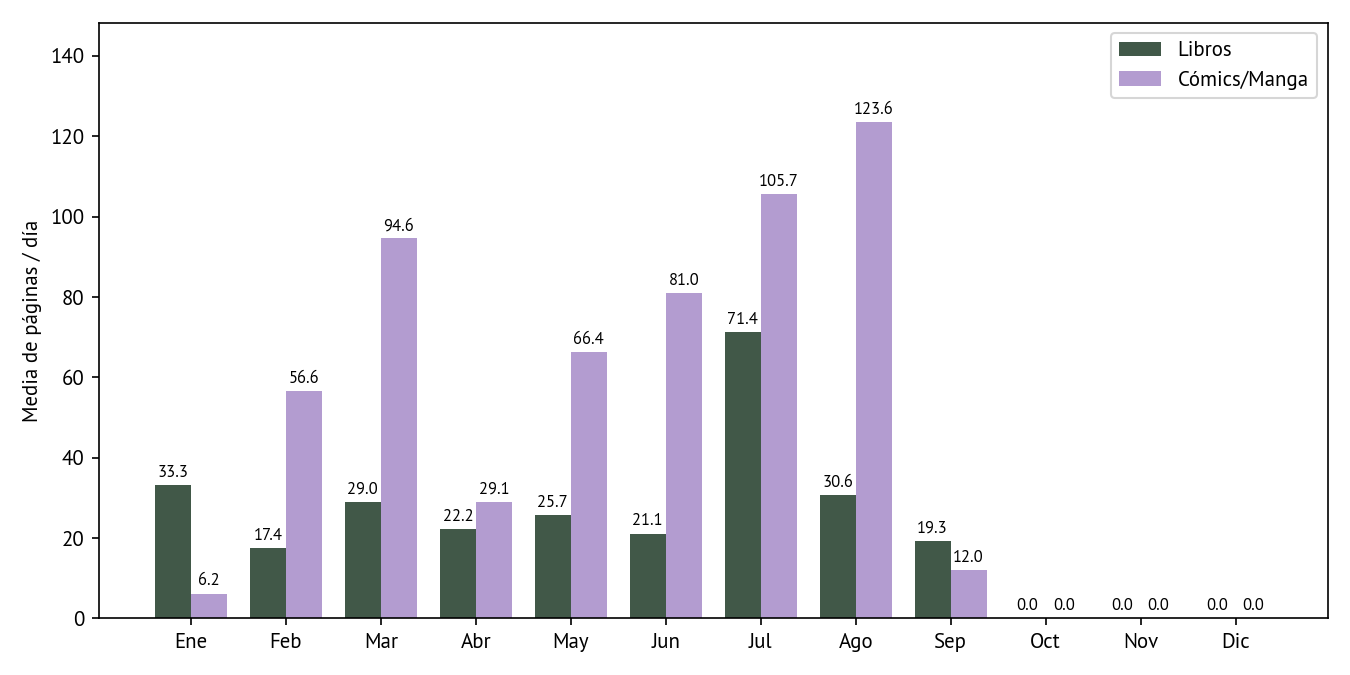
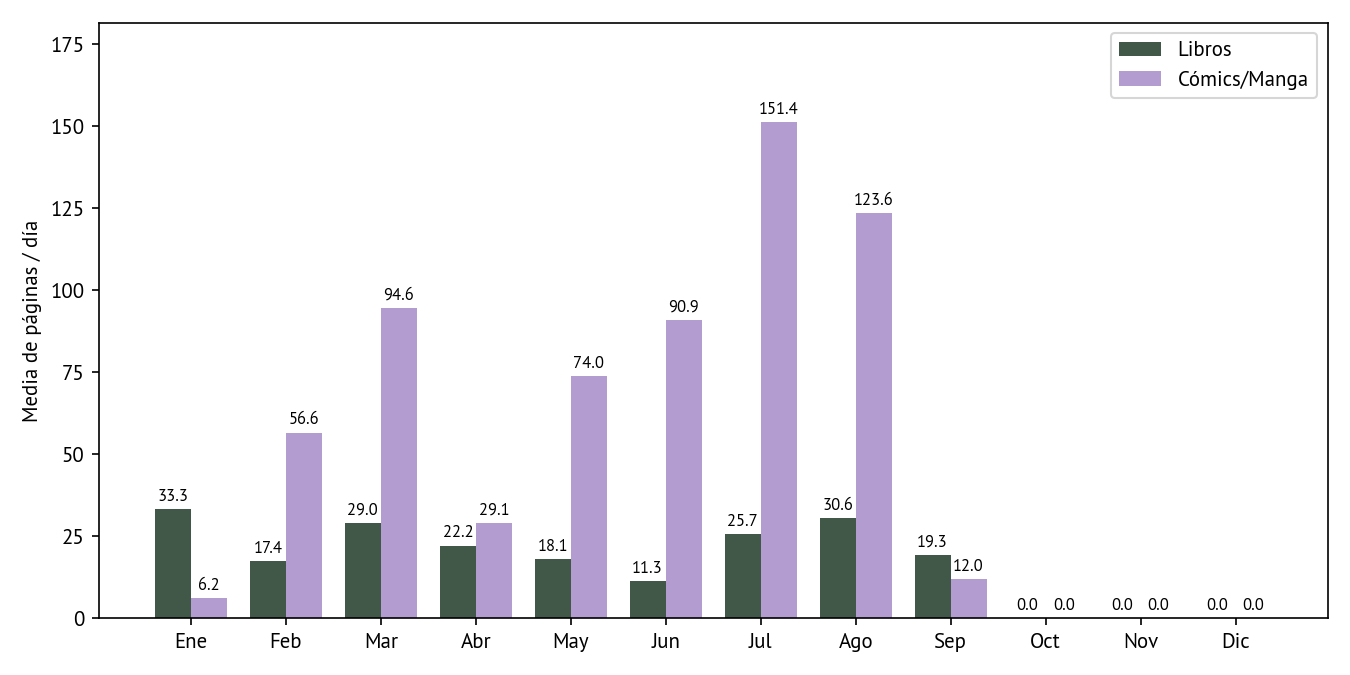
.

diff --git a/content/estadisticas/index.md b/content/estadisticas/index.md
@@ -6,11 +6,11 @@ summary: Estadísticas de lectura por año.
 ## Resumen histórico
 
 <div style="border:1px solid rgba(128,128,128,0.35);border-radius:12px;padding:1.25rem 1.5rem;margin:1rem 0;background:rgba(128,128,128,0.06);">
-<h3 style="margin-top:0;">Libros</h3><div style="display:flex;gap:2.5rem;flex-wrap:wrap;"><div><div style="opacity:0.6;">Total páginas leídas</div><div style="font-size:2rem;font-weight:800;line-height:1.1;">197846</div></div><div><div style="opacity:0.6;">Número de libros</div><div style="font-size:2rem;font-weight:800;line-height:1.1;">670</div></div></div>
+<h3 style="margin-top:0;">Libros</h3><div style="display:flex;gap:2.5rem;flex-wrap:wrap;"><div><div style="opacity:0.6;">Total páginas leídas</div><div style="font-size:2rem;font-weight:800;line-height:1.1;">195562</div></div><div><div style="opacity:0.6;">Número de libros</div><div style="font-size:2rem;font-weight:800;line-height:1.1;">660</div></div></div>
 </div>
 
 <div style="border:1px solid rgba(128,128,128,0.35);border-radius:12px;padding:1.25rem 1.5rem;margin:1rem 0;background:rgba(128,128,128,0.06);">
-<h3 style="margin-top:0;">Cómics/Manga</h3><div style="display:flex;gap:2.5rem;flex-wrap:wrap;"><div><div style="opacity:0.6;">Total páginas leídas</div><div style="font-size:2rem;font-weight:800;line-height:1.1;">52172</div></div><div><div style="opacity:0.6;">Número de cómics/manga</div><div style="font-size:2rem;font-weight:800;line-height:1.1;">256</div></div></div>
+<h3 style="margin-top:0;">Cómics/Manga</h3><div style="display:flex;gap:2.5rem;flex-wrap:wrap;"><div><div style="opacity:0.6;">Total páginas leídas</div><div style="font-size:2rem;font-weight:800;line-height:1.1;">54456</div></div><div><div style="opacity:0.6;">Número de cómics/manga</div><div style="font-size:2rem;font-weight:800;line-height:1.1;">266</div></div></div>
 </div>
 
 <div style="border:1px solid rgba(128,128,128,0.35);border-radius:12px;padding:1.25rem 1.5rem;margin:1rem 0;background:rgba(128,128,128,0.06);">
@@ -56,19 +56,19 @@ summary: Estadísticas de lectura por año.
 </div>
 
 <div style="border:1px solid rgba(128,128,128,0.35);border-radius:12px;padding:1.25rem 1.5rem;margin:1rem 0;background:rgba(128,128,128,0.06);">
-<h3 style="margin-top:0;">Longitud media</h3><div style="display:flex;gap:2.5rem;flex-wrap:wrap;"><div><div style="opacity:0.6;">Libros</div><div style="font-size:2rem;font-weight:800;line-height:1.1;">295</div><div style="font-weight:700;">páginas de media</div></div><div><div style="opacity:0.6;">Cómics/Manga</div><div style="font-size:2rem;font-weight:800;line-height:1.1;">204</div><div style="font-weight:700;">páginas de media</div></div></div>
+<h3 style="margin-top:0;">Longitud media</h3><div style="display:flex;gap:2.5rem;flex-wrap:wrap;"><div><div style="opacity:0.6;">Libros</div><div style="font-size:2rem;font-weight:800;line-height:1.1;">296</div><div style="font-weight:700;">páginas de media</div></div><div><div style="opacity:0.6;">Cómics/Manga</div><div style="font-size:2rem;font-weight:800;line-height:1.1;">205</div><div style="font-weight:700;">páginas de media</div></div></div>
 </div>
 
 <div style="border:1px solid rgba(128,128,128,0.35);border-radius:12px;padding:1.25rem 1.5rem;margin:1rem 0;background:rgba(128,128,128,0.06);">
-<h3 style="margin-top:0;">Top 5 géneros</h3><div style="display:flex;gap:2.5rem;flex-wrap:wrap;"><div><div style="opacity:0.6;margin-bottom:0.3rem;">Libros</div><ol style="margin:0;padding-left:1.2rem;"><li>Ficción (505)</li><li>Club de lectura (193)</li><li>Novela (192)</li><li>Fantasía (186)</li><li>Contemporaneo (176)</li></ol></div><div><div style="opacity:0.6;margin-bottom:0.3rem;">Cómics/Manga</div><ol style="margin:0;padding-left:1.2rem;"><li>Novela gráfica (221)</li><li>Ficción (156)</li><li>Fantasía (84)</li><li>Jovenes adultos (54)</li><li>Romance (53)</li></ol></div></div>
+<h3 style="margin-top:0;">Top 5 géneros</h3><div style="display:flex;gap:2.5rem;flex-wrap:wrap;"><div><div style="opacity:0.6;margin-bottom:0.3rem;">Libros</div><ol style="margin:0;padding-left:1.2rem;"><li>Ficción (505)</li><li>Club de lectura (193)</li><li>Novela (192)</li><li>Fantasía (186)</li><li>Contemporaneo (176)</li></ol></div><div><div style="opacity:0.6;margin-bottom:0.3rem;">Cómics/Manga</div><ol style="margin:0;padding-left:1.2rem;"><li>Novela gráfica (227)</li><li>Ficción (163)</li><li>Fantasía (83)</li><li>Jovenes adultos (54)</li><li>Romance (53)</li></ol></div></div>
 </div>
 
 <div style="border:1px solid rgba(128,128,128,0.35);border-radius:12px;padding:1.25rem 1.5rem;margin:1rem 0;background:rgba(128,128,128,0.06);">
-<h3 style="margin-top:0;">Autores más leídos</h3><div style="display:flex;gap:2.5rem;flex-wrap:wrap;"><div><div style="opacity:0.6;margin-bottom:0.3rem;">Libros</div><ol style="margin:0;padding-left:1.2rem;"><li>J.K. Rowling (10)</li><li>Michael McDowell (9)</li><li>Grady Hendrix (8)</li><li>Hiromi Kawakami (5)</li><li>P. Djèlí Clark (5)</li></ol></div><div><div style="opacity:0.6;margin-bottom:0.3rem;">Cómics/Manga</div><ol style="margin:0;padding-left:1.2rem;"><li>Matt Fraction (31)</li><li>Makoto Ojiro (14)</li><li>Peter Bagge (13)</li><li>Rumiko Takahashi (9)</li><li>Yarō Abe (9)</li></ol></div></div>
+<h3 style="margin-top:0;">Autores más leídos</h3><div style="display:flex;gap:2.5rem;flex-wrap:wrap;"><div><div style="opacity:0.6;margin-bottom:0.3rem;">Libros</div><ol style="margin:0;padding-left:1.2rem;"><li>J.K. Rowling (10)</li><li>Michael McDowell (9)</li><li>Grady Hendrix (8)</li><li>Hiromi Kawakami (5)</li><li>P. Djèlí Clark (5)</li></ol></div><div><div style="opacity:0.6;margin-bottom:0.3rem;">Cómics/Manga</div><ol style="margin:0;padding-left:1.2rem;"><li>Matt Fraction (31)</li><li>Peter Bagge (16)</li><li>Makoto Ojiro (14)</li><li>Yarō Abe (10)</li><li>Rumiko Takahashi (9)</li></ol></div></div>
 </div>
 
 <div style="border:1px solid rgba(128,128,128,0.35);border-radius:12px;padding:1.25rem 1.5rem;margin:1rem 0;background:rgba(128,128,128,0.06);">
-<h3 style="margin-top:0;">Editoriales más leídas</h3><div style="display:flex;gap:2.5rem;flex-wrap:wrap;"><div><div style="opacity:0.6;margin-bottom:0.3rem;">Libros</div><ol style="margin:0;padding-left:1.2rem;"><li>Libros del Asteroide (28)</li><li>Blackie Books (26)</li><li>Editorial Anagrama (25)</li><li>Literatura Random House (18)</li><li>Anagrama (17)</li></ol></div><div><div style="opacity:0.6;margin-bottom:0.3rem;">Cómics/Manga</div><ol style="margin:0;padding-left:1.2rem;"><li>Image Comics (27)</li><li>Milky Way Ediciones (21)</li><li>Astiberri (19)</li><li>Ediciones Glénat España (12)</li><li>La Cúpula (11)</li></ol></div></div>
+<h3 style="margin-top:0;">Editoriales más leídas</h3><div style="display:flex;gap:2.5rem;flex-wrap:wrap;"><div><div style="opacity:0.6;margin-bottom:0.3rem;">Libros</div><ol style="margin:0;padding-left:1.2rem;"><li>Libros del Asteroide (28)</li><li>Blackie Books (26)</li><li>Editorial Anagrama (25)</li><li>Literatura Random House (18)</li><li>Anagrama (17)</li></ol></div><div><div style="opacity:0.6;margin-bottom:0.3rem;">Cómics/Manga</div><ol style="margin:0;padding-left:1.2rem;"><li>Image Comics (27)</li><li>Milky Way Ediciones (21)</li><li>Astiberri (19)</li><li>La Cúpula (12)</li><li>Ediciones Glénat España (12)</li></ol></div></div>
 </div>
 
 <div style="border:1px solid rgba(128,128,128,0.35);border-radius:12px;padding:1.25rem 1.5rem;margin:1rem 0;background:rgba(128,128,128,0.06);">
@@ -78,11 +78,11 @@ summary: Estadísticas de lectura por año.
 ## 2026
 
 <div style="border:1px solid rgba(128,128,128,0.35);border-radius:12px;padding:1.25rem 1.5rem;margin:1rem 0;background:rgba(128,128,128,0.06);">
-<h3 style="margin-top:0;">Libros</h3><div style="display:flex;gap:2.5rem;flex-wrap:wrap;"><div><div style="opacity:0.6;">Total páginas leídas</div><div style="font-size:2rem;font-weight:800;line-height:1.1;">8258</div></div><div><div style="opacity:0.6;">Número de libros</div><div style="font-size:2rem;font-weight:800;line-height:1.1;">32</div></div></div>
+<h3 style="margin-top:0;">Libros</h3><div style="display:flex;gap:2.5rem;flex-wrap:wrap;"><div><div style="opacity:0.6;">Total páginas leídas</div><div style="font-size:2rem;font-weight:800;line-height:1.1;">6310</div></div><div><div style="opacity:0.6;">Número de libros</div><div style="font-size:2rem;font-weight:800;line-height:1.1;">23</div></div></div>
 </div>
 
 <div style="border:1px solid rgba(128,128,128,0.35);border-radius:12px;padding:1.25rem 1.5rem;margin:1rem 0;background:rgba(128,128,128,0.06);">
-<h3 style="margin-top:0;">Cómics/Manga</h3><div style="display:flex;gap:2.5rem;flex-wrap:wrap;"><div><div style="opacity:0.6;">Total páginas leídas</div><div style="font-size:2rem;font-weight:800;line-height:1.1;">17540</div></div><div><div style="opacity:0.6;">Número de cómics/manga</div><div style="font-size:2rem;font-weight:800;line-height:1.1;">108</div></div></div>
+<h3 style="margin-top:0;">Cómics/Manga</h3><div style="display:flex;gap:2.5rem;flex-wrap:wrap;"><div><div style="opacity:0.6;">Total páginas leídas</div><div style="font-size:2rem;font-weight:800;line-height:1.1;">19488</div></div><div><div style="opacity:0.6;">Número de cómics/manga</div><div style="font-size:2rem;font-weight:800;line-height:1.1;">117</div></div></div>
 </div>
 
 <div style="border:1px solid rgba(128,128,128,0.35);border-radius:12px;padding:1.25rem 1.5rem;margin:1rem 0;background:rgba(128,128,128,0.06);">
@@ -132,11 +132,11 @@ summary: Estadísticas de lectura por año.
 </div>
 
 <div style="border:1px solid rgba(128,128,128,0.35);border-radius:12px;padding:1.25rem 1.5rem;margin:1rem 0;background:rgba(128,128,128,0.06);">
-<h3 style="margin-top:0;">Longitud media</h3><div style="display:flex;gap:2.5rem;flex-wrap:wrap;"><div><div style="opacity:0.6;">Libros</div><div style="font-size:2rem;font-weight:800;line-height:1.1;">258</div><div style="font-weight:700;">páginas de media</div></div><div><div style="opacity:0.6;">Cómics/Manga</div><div style="font-size:2rem;font-weight:800;line-height:1.1;">162</div><div style="font-weight:700;">páginas de media</div></div></div>
+<h3 style="margin-top:0;">Longitud media</h3><div style="display:flex;gap:2.5rem;flex-wrap:wrap;"><div><div style="opacity:0.6;">Libros</div><div style="font-size:2rem;font-weight:800;line-height:1.1;">274</div><div style="font-weight:700;">páginas de media</div></div><div><div style="opacity:0.6;">Cómics/Manga</div><div style="font-size:2rem;font-weight:800;line-height:1.1;">167</div><div style="font-weight:700;">páginas de media</div></div></div>
 </div>
 
 <div style="border:1px solid rgba(128,128,128,0.35);border-radius:12px;padding:1.25rem 1.5rem;margin:1rem 0;background:rgba(128,128,128,0.06);">
-<h3 style="margin-top:0;">Top 5 géneros</h3><div style="display:flex;gap:2.5rem;flex-wrap:wrap;"><div><div style="opacity:0.6;margin-bottom:0.3rem;">Libros</div><ol style="margin:0;padding-left:1.2rem;"><li>Ficción (19)</li><li>Ficción Literaria (8)</li><li>Contemporaneo (8)</li><li>Novela (8)</li><li>Relatos (7)</li></ol></div><div><div style="opacity:0.6;margin-bottom:0.3rem;">Cómics/Manga</div><ol style="margin:0;padding-left:1.2rem;"><li>Novela gráfica (95)</li><li>Ficción (75)</li><li>Fantasía (37)</li><li>Jovenes adultos (35)</li><li>Romance (30)</li></ol></div></div>
+<h3 style="margin-top:0;">Top 5 géneros</h3><div style="display:flex;gap:2.5rem;flex-wrap:wrap;"><div><div style="opacity:0.6;margin-bottom:0.3rem;">Libros</div><ol style="margin:0;padding-left:1.2rem;"><li>Ficción (19)</li><li>Ficción Literaria (8)</li><li>Contemporaneo (8)</li><li>Novela (8)</li><li>Relatos (7)</li></ol></div><div><div style="opacity:0.6;margin-bottom:0.3rem;">Cómics/Manga</div><ol style="margin:0;padding-left:1.2rem;"><li>Novela gráfica (101)</li><li>Ficción (82)</li><li>Fantasía (36)</li><li>Jovenes adultos (35)</li><li>Romance (30)</li></ol></div></div>
 </div>
 
 <div style="border:1px solid rgba(128,128,128,0.35);border-radius:12px;padding:1.25rem 1.5rem;margin:1rem 0;background:rgba(128,128,128,0.06);">
@@ -158,11 +158,11 @@ summary: Estadísticas de lectura por año.
 ## 2025
 
 <div style="border:1px solid rgba(128,128,128,0.35);border-radius:12px;padding:1.25rem 1.5rem;margin:1rem 0;background:rgba(128,128,128,0.06);">
-<h3 style="margin-top:0;">Libros</h3><div style="display:flex;gap:2.5rem;flex-wrap:wrap;"><div><div style="opacity:0.6;">Total páginas leídas</div><div style="font-size:2rem;font-weight:800;line-height:1.1;">11156</div></div><div><div style="opacity:0.6;">Número de libros</div><div style="font-size:2rem;font-weight:800;line-height:1.1;">42</div></div></div>
+<h3 style="margin-top:0;">Libros</h3><div style="display:flex;gap:2.5rem;flex-wrap:wrap;"><div><div style="opacity:0.6;">Total páginas leídas</div><div style="font-size:2rem;font-weight:800;line-height:1.1;">10820</div></div><div><div style="opacity:0.6;">Número de libros</div><div style="font-size:2rem;font-weight:800;line-height:1.1;">41</div></div></div>
 </div>
 
 <div style="border:1px solid rgba(128,128,128,0.35);border-radius:12px;padding:1.25rem 1.5rem;margin:1rem 0;background:rgba(128,128,128,0.06);">
-<h3 style="margin-top:0;">Cómics/Manga</h3><div style="display:flex;gap:2.5rem;flex-wrap:wrap;"><div><div style="opacity:0.6;">Total páginas leídas</div><div style="font-size:2rem;font-weight:800;line-height:1.1;">15428</div></div><div><div style="opacity:0.6;">Número de cómics/manga</div><div style="font-size:2rem;font-weight:800;line-height:1.1;">56</div></div></div>
+<h3 style="margin-top:0;">Cómics/Manga</h3><div style="display:flex;gap:2.5rem;flex-wrap:wrap;"><div><div style="opacity:0.6;">Total páginas leídas</div><div style="font-size:2rem;font-weight:800;line-height:1.1;">15764</div></div><div><div style="opacity:0.6;">Número de cómics/manga</div><div style="font-size:2rem;font-weight:800;line-height:1.1;">57</div></div></div>
 </div>
 
 <div style="border:1px solid rgba(128,128,128,0.35);border-radius:12px;padding:1.25rem 1.5rem;margin:1rem 0;background:rgba(128,128,128,0.06);">
@@ -212,7 +212,7 @@ summary: Estadísticas de lectura por año.
 </div>
 
 <div style="border:1px solid rgba(128,128,128,0.35);border-radius:12px;padding:1.25rem 1.5rem;margin:1rem 0;background:rgba(128,128,128,0.06);">
-<h3 style="margin-top:0;">Longitud media</h3><div style="display:flex;gap:2.5rem;flex-wrap:wrap;"><div><div style="opacity:0.6;">Libros</div><div style="font-size:2rem;font-weight:800;line-height:1.1;">266</div><div style="font-weight:700;">páginas de media</div></div><div><div style="opacity:0.6;">Cómics/Manga</div><div style="font-size:2rem;font-weight:800;line-height:1.1;">276</div><div style="font-weight:700;">páginas de media</div></div></div>
+<h3 style="margin-top:0;">Longitud media</h3><div style="display:flex;gap:2.5rem;flex-wrap:wrap;"><div><div style="opacity:0.6;">Libros</div><div style="font-size:2rem;font-weight:800;line-height:1.1;">264</div><div style="font-weight:700;">páginas de media</div></div><div><div style="opacity:0.6;">Cómics/Manga</div><div style="font-size:2rem;font-weight:800;line-height:1.1;">277</div><div style="font-weight:700;">páginas de media</div></div></div>
 </div>
 
 <div style="border:1px solid rgba(128,128,128,0.35);border-radius:12px;padding:1.25rem 1.5rem;margin:1rem 0;background:rgba(128,128,128,0.06);">
